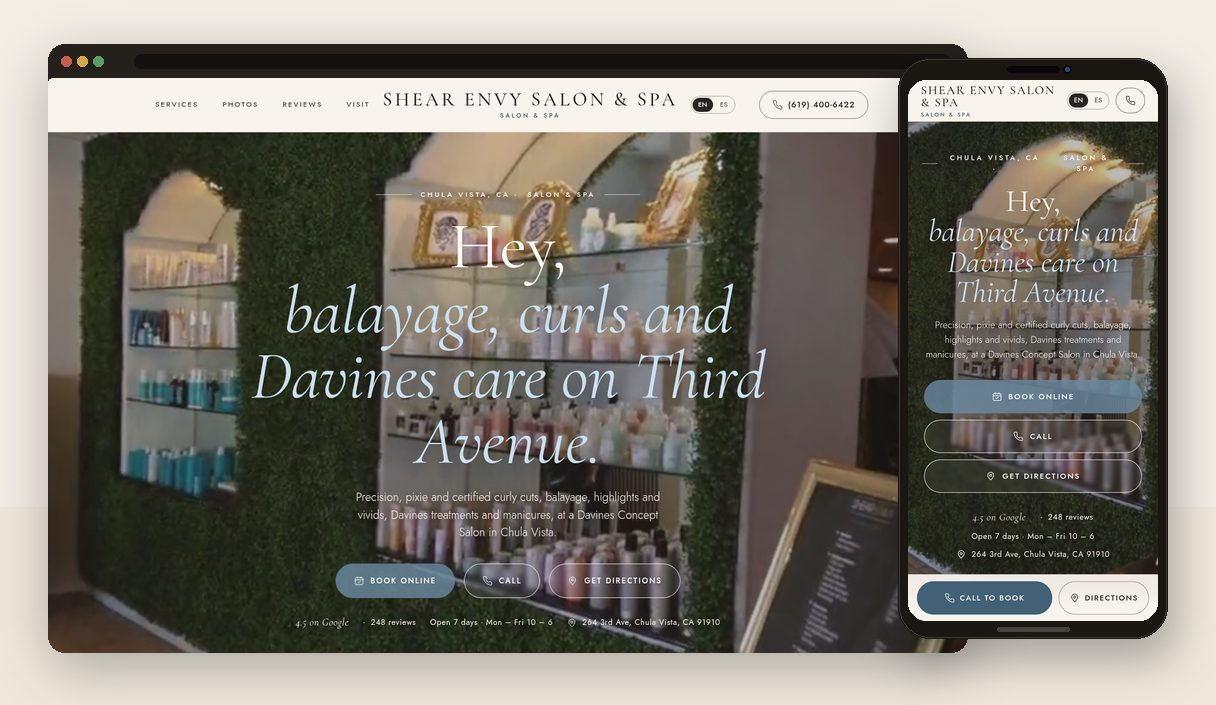
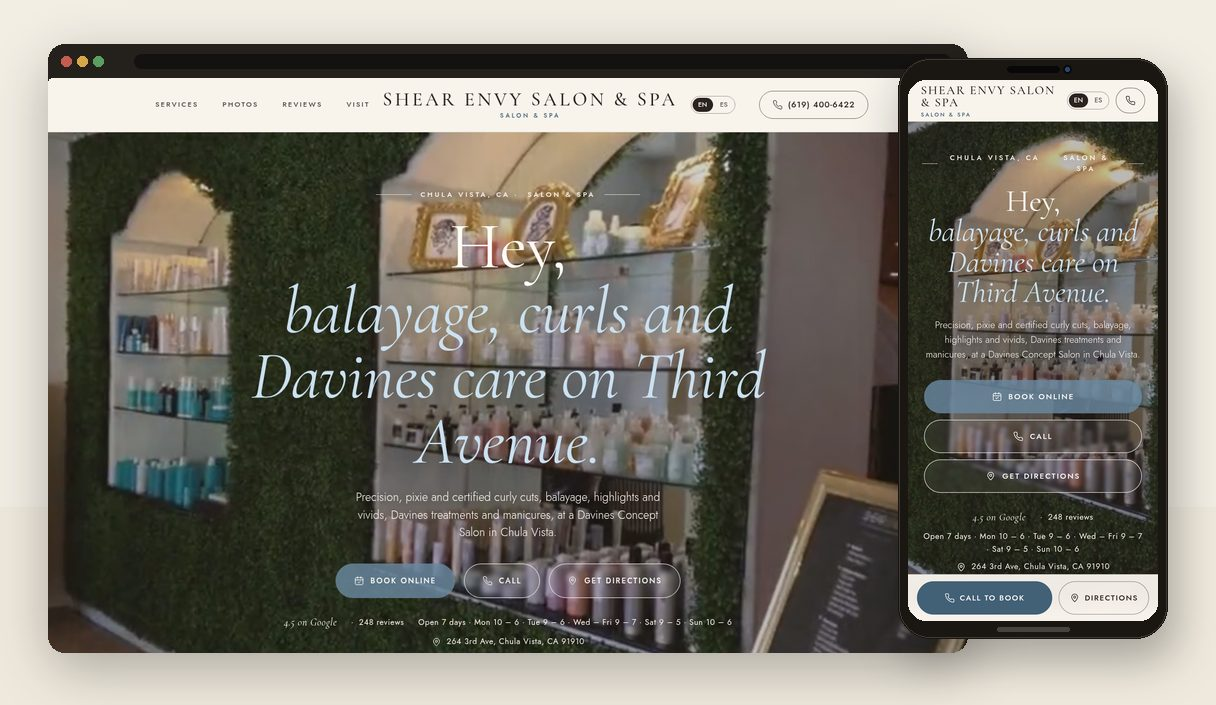
shear-envy: hours match Google Maps

diff --git a/shear-envy-salon-chula-vista/index.html b/shear-envy-salon-chula-vista/index.html
@@ -132,7 +132,7 @@ html[data-l=en] .i-es,html[data-l=es] .i-en{display:none!important}
 <div class="strip n4"><button class="g rv" data-i="0" aria-label="Open photo 1"><img src="g/01-s.webp" width="748" height="578" loading="lazy" decoding="async" alt="Shear Envy Salon &amp; Spa, Chula Vista, CA: photo 1"></button><button class="g rv" data-i="1" aria-label="Open photo 2"><img src="g/02-s.webp" width="1400" height="1400" loading="lazy" decoding="async" alt="Shear Envy Salon &amp; Spa, Chula Vista, CA: photo 2"></button><button class="g rv" data-i="2" aria-label="Open photo 3"><img src="g/03-s.webp" width="1050" height="1400" loading="lazy" decoding="async" alt="Shear Envy Salon &amp; Spa, Chula Vista, CA: photo 3"></button><button class="g rv" data-i="3" aria-label="Open photo 4"><img src="g/04-s.webp" width="1281" height="854" loading="lazy" decoding="async" alt="Shear Envy Salon &amp; Spa, Chula Vista, CA: photo 4"></button></div></div></section>
 <section class="rvw" id="reviews"><div class="wrap"><div class="orn rv"><span class="i-en">Reviews</span><span class="i-es">Reseñas</span></div><h2 class="rv"><span class="i-en">In their <em>own words.</em></span><span class="i-es">En sus <em>propias palabras.</em></span></h2><p class="lede rv"><span class="i-en">Five-star reviews from our Google listing.</span><span class="i-es">Reseñas de cinco estrellas de nuestro perfil de Google.</span></p><div class="rg"><figure class="rc rv"><div class="stars" aria-label="5 stars">★★★★★<small>5/5</small></div><q>I love seeing Adriana! She always understands exactly what I want and does my hair perfectly. I wanted to go lighter with my balayage and it turned out beautiful. I’m so glad I found someone here in California that I can truly trust with my hair. ❤</q><figcaption class="who">Ashley · <span class="i-en">Google review</span><span class="i-es">Reseña de Google</span></figcaption></figure><figure class="rc rv"><div class="stars" aria-label="5 stars">★★★★★<small>5/5</small></div><q>Glenda was fantastic! It took her a moment to look at the photo of the haircut I wanted and replicated it perfectly 👌 Plus the bonus hair care suggestions. I would be coming back :)</q><figcaption class="who">Rachel · <span class="i-en">Google review</span><span class="i-es">Reseña de Google</span></figcaption></figure><figure class="rc rv"><div class="stars" aria-label="5 stars">★★★★★<small>5/5</small></div><q>Adriana gave me the most beautiful layeres haircut today for my very long hair, which was proceeded by a wonderful scalp massage/ hair wash! She&#x27;s really kind and gentle too - long hair is not fun to brush!</q><figcaption class="who">Denali · <span class="i-en">Google review</span><span class="i-es">Reseña de Google</span></figcaption></figure></div></div></section>
 <section class="closing" id="visit"><div class="wrap"><div class="cl rv">
-<div class="orn"><span class="i-en">Visit us</span><span class="i-es">Visítenos</span></div><h2><span class="i-en">Come <em>see us.</em></span><span class="i-es">Le <em>esperamos.</em></span></h2><p><span class="i-en">Call ahead or stop by. We will take care of you.</span><span class="i-es">Llame antes o pase por aquí. Le atendemos con gusto.</span></p><p class="hrs"><b><span class="i-en">Hours</span><span class="i-es">Horario</span></b><span class="i-en">Mon – Fri 10 AM – 6 PM, Sat 9 AM – 5 PM, Sun 10 AM – 6 PM.</span><span class="i-es">Lun – Vie 10 AM – 6 PM, Sáb 9 AM – 5 PM, Dom 10 AM – 6 PM.</span></p>
+<div class="orn"><span class="i-en">Visit us</span><span class="i-es">Visítenos</span></div><h2><span class="i-en">Come <em>see us.</em></span><span class="i-es">Le <em>esperamos.</em></span></h2><p><span class="i-en">Call ahead or stop by. We will take care of you.</span><span class="i-es">Llame antes o pase por aquí. Le atendemos con gusto.</span></p><p class="hrs"><b><span class="i-en">Hours</span><span class="i-es">Horario</span></b><span class="i-en">Mon 10 AM – 6 PM, Tue 9 AM – 6 PM, Wed – Fri 9 AM – 7 PM, Sat 9 AM – 5 PM, Sun 10 AM – 6 PM.</span><span class="i-es">Lun 10 AM – 6 PM, Mar 9 AM – 6 PM, Mié – Vie 9 AM – 7 PM, Sáb 9 AM – 5 PM, Dom 10 AM – 6 PM.</span></p>
 <div class="cta"><a class="btn btn-s" href="tel:+16194006422"><svg class="ic" viewBox="0 0 24 24" fill="none" stroke="currentColor" stroke-width="1.5" stroke-linecap="round" stroke-linejoin="round" aria-hidden="true"><path d="M22 16.92v3a2 2 0 0 1-2.18 2 19.8 19.8 0 0 1-8.63-3.07 19.5 19.5 0 0 1-6-6A19.8 19.8 0 0 1 2.12 4.18 2 2 0 0 1 4.11 2h3a2 2 0 0 1 2 1.72c.13.96.36 1.9.7 2.81a2 2 0 0 1-.45 2.11L8.09 9.91a16 16 0 0 0 6 6l1.27-1.27a2 2 0 0 1 2.11-.45c.9.34 1.85.57 2.81.7A2 2 0 0 1 22 16.92z"/></svg><span class="i-en">Call</span><span class="i-es">Llamar</span> (619) 400-6422</a><a class="btn btn-o" href="https://www.google.com/maps/search/?api=1&query=Shear%20Envy%20Salon%20%26%20Spa%2C%20264%203rd%20Ave%2C%20Chula%20Vista%2C%20CA%2091910" target="_blank" rel="noopener"><svg class="ic" viewBox="0 0 24 24" fill="none" stroke="currentColor" stroke-width="1.5" stroke-linecap="round" stroke-linejoin="round" aria-hidden="true"><path d="M12 21s-7-6.2-7-11a7 7 0 0 1 14 0c0 4.8-7 11-7 11z"/><circle cx="12" cy="10" r="2.5"/></svg><span class="i-en">Get directions</span><span class="i-es">Cómo llegar</span></a></div>
 </div></div></section>
 </main>
@@ -150,7 +150,7 @@ if(!rm){v.src=pre+'.mp4';v.addEventListener('playing',function(){v.classList.add
 var mb=document.getElementById('mb');function nb(){var f=document.getElementById('nl-badge-frame');if(f){var r=f.getBoundingClientRect();if(r.height)mb.style.bottom=(innerHeight-r.top+8)+'px'}}[1500,4000,8000].forEach(function(t){setTimeout(nb,t)});
 var io=new IntersectionObserver(function(es){es.forEach(function(q){if(q.isIntersecting){q.target.classList.add('in');io.unobserve(q.target)}})},{rootMargin:'0px 0px -8% 0px'});
 document.querySelectorAll('.rv').forEach(function(el){io.observe(el)});
-var H=[[[600, 1080]], [[600, 1080]], [[600, 1080]], [[600, 1080]], [[600, 1080]], [[540, 1020]], [[600, 1080]]],TZ="America/Los_Angeles",TX={"en": {"o": "Open now · until ", "c": "Closed now · opens ", "tm": "tomorrow", "td": "today", "ds": ["Mon", "Tue", "Wed", "Thu", "Fri", "Sat", "Sun"]}, "es": {"o": "Abierto ahora · hasta las ", "c": "Cerrado ahora · abre ", "tm": "mañana", "td": "hoy", "ds": ["Lun", "Mar", "Mié", "Jue", "Vie", "Sáb", "Dom"]}};
+var H=[[[600, 1080]], [[540, 1080]], [[540, 1140]], [[540, 1140]], [[540, 1140]], [[540, 1020]], [[600, 1080]]],TZ="America/Los_Angeles",TX={"en": {"o": "Open now · until ", "c": "Closed now · opens ", "tm": "tomorrow", "td": "today", "ds": ["Mon", "Tue", "Wed", "Thu", "Fri", "Sat", "Sun"]}, "es": {"o": "Abierto ahora · hasta las ", "c": "Cerrado ahora · abre ", "tm": "mañana", "td": "hoy", "ds": ["Lun", "Mar", "Mié", "Jue", "Vie", "Sáb", "Dom"]}};
 if(H)try{var f=new Intl.DateTimeFormat('en-US',{timeZone:TZ,weekday:'short',hour:'numeric',minute:'numeric',hour12:false}).formatToParts(new Date()),o={};f.forEach(function(p){o[p.type]=p.value});
 var d=['Mon','Tue','Wed','Thu','Fri','Sat','Sun'].indexOf(o.weekday),m=(+o.hour%24)*60+(+o.minute),t=H[d]||[];
 function fm(x){var h=Math.floor(x/60),mm=x%60,ap=h<12?'AM':'PM';h=h%12||12;return h+(mm?':'+(mm<10?'0':'')+mm:'')+' '+ap}
